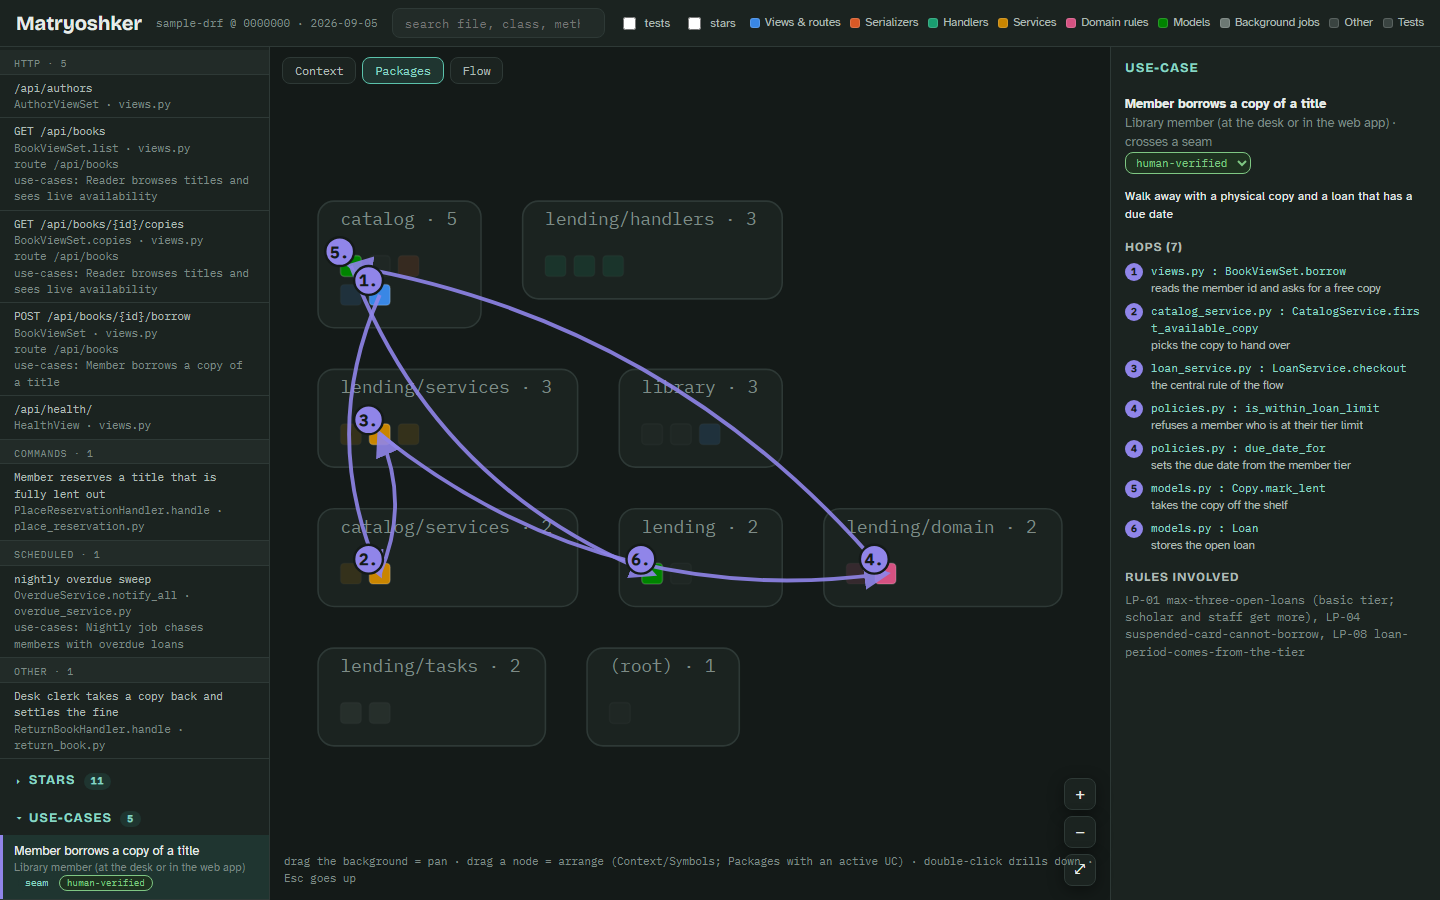
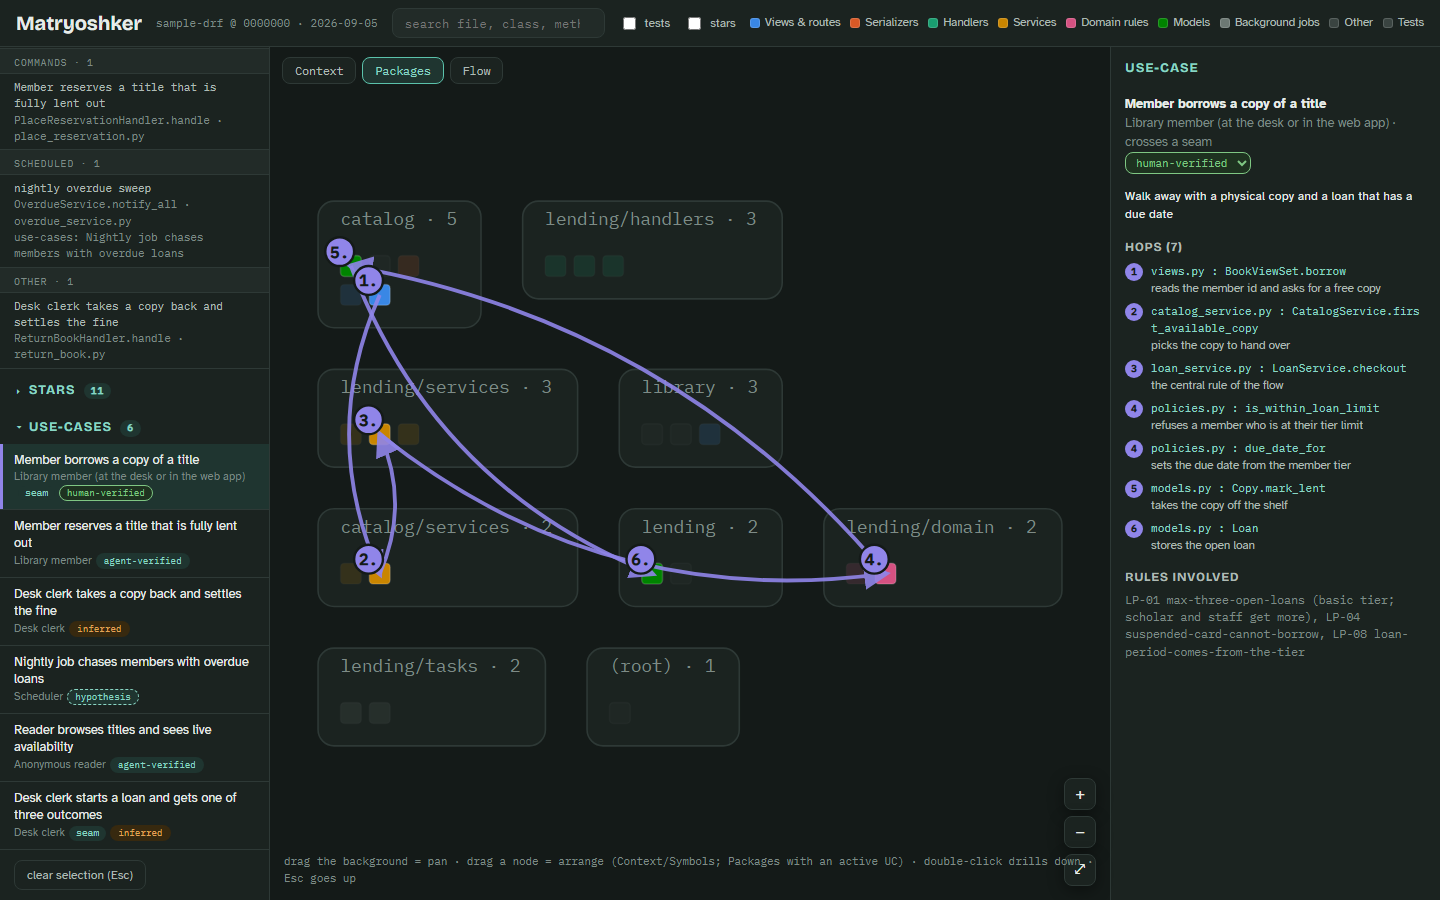
docs+data: a forked use-case in the fixture, and the Flow fan-out screenshot
examples/sample-drf/usecases.json gains "Desk clerk starts a loan and gets one of three
outcomes" (inferred): the borrow request told from the desk, ending at the fork where
LoanService.checkout picks MemberSuspended, LoanLimitReached or Loan, written with the
branch: and seam: prefixes. The README (and its Portuguese peer) shows the resulting Flow
scene — 3a/3b/3c under the choosing hop, a dashed seam edge — captured from the build,
and the tour points at it. Every counter the sixth entry moves is updated in README,
QUICKSTART, the walkthrough and their Portuguese peers; the first screenshot is
recaptured from the six-use-case build.

Claude-Session: https://claude.ai/code/session_0199na1cXfFdGWKTSWA1gUwd

Changed region(s): [[0.0, 0.0622, 0.1875, 0.9956]]

diff --git a/docs/pt-BR/first-use-case.md b/docs/pt-BR/first-use-case.md
@@ -34,7 +34,7 @@ empréstimo quando ninguém está esperando pelo título.
 
 Por que este: é um comportamento real com uma regra de negócio própria (renovações têm
 teto e são bloqueadas por fila), é pequeno, e o registro do fixture ainda não o tem. As
-cinco entradas que já estão em `examples/sample-drf/usecases.json` são as que você vê na
+seis entradas que já estão em `examples/sample-drf/usecases.json` são as que você vê na
 demo.
 
 Prática: parta de um comportamento que um stakeholder nomearia, não de um módulo.
@@ -188,14 +188,14 @@ Saída esperada (stderr e stdout intercalados; as linhas `build.py: step k/4` om
 no Windows os caminhos saem com barras invertidas):
 
 ```
-files=25 imports=33 ucs=6 hops=37 -> out/data.json (10KB)
-entry points: 4 from parsers, 5 declared, 2 fallback, 2 duplicates merged
-entry_points=9 calls: internal=49 cross=71 -> out/extra.json (6KB)
-matryoshker.html: 98KB
+files=25 imports=33 ucs=7 hops=42 -> out/data.json (11KB)
+entry points: 4 from parsers, 6 declared, 2 fallback, 2 duplicates merged
+entry_points=10 calls: internal=49 cross=71 -> out/extra.json (6KB)
+matryoshker.html: 99KB
 ```
 
-Leia os contadores contra o que você escreveu: `ucs=6` (cinco mais o seu), `hops=37`
-(33 mais os seus quatro), `2 fallback` (o fixture já tinha um use-case sem ponto de
+Leia os contadores contra o que você escreveu: `ucs=7` (seis mais o seu), `hops=42`
+(38 mais os seus quatro), `2 fallback` (o fixture já tinha um use-case sem ponto de
 entrada; o seu é o segundo). Nenhuma linha começando com `UC ` apareceu em stderr: o
 arquivo de todo hop resolveu e todo símbolo foi encontrado no seu arquivo.
 
@@ -207,10 +207,10 @@ As duas variantes abaixo foram executadas. **Um símbolo errado** — hop 1 cita
 ```
 UC Member renews a loan before it is due: 4/4 hops resolved
   unverified symbol [LoanService.extend not declared in lending/services/loan_service.py]: lending/services/loan_service.py:LoanService.extend — refuses when the title has a queue or the renewals are used up
-files=25 imports=33 ucs=6 hops=37 -> out/data.json (10KB)
+files=25 imports=33 ucs=7 hops=42 -> out/data.json (11KB)
 ```
 
-O hop ainda conta (`4/4`, `hops=37`), ainda é desenhado no mapa com o nome errado, e o
+O hop ainda conta (`4/4`, `hops=42`), ainda é desenhado no mapa com o nome errado, e o
 código de saída é **0 mesmo com `--strict`**. O único rastro é aquela linha de stderr.
 Leia o stderr.
 
@@ -219,11 +219,11 @@ Leia o stderr.
 ```
 UC Member renews a loan before it is due: 3/4 hops resolved
   dropped [file not found in the extraction]: lending/domain/renewal_policy.py:can_renew — the rule: no open reservation and fewer than MAX_RENEWALS
-total: 36/37 hops resolved (1 dropped in 1 use-cases)
+total: 41/42 hops resolved (1 dropped in 1 use-cases)
 strict: 1 citations dropped
 ```
 
-O hop é descartado (`hops=36`) e, com `--strict`, o build para na etapa 2 com código de
+O hop é descartado (`hops=41`) e, com `--strict`, o build para na etapa 2 com código de
 saída 3 e não escreve HTML. Sem `--strict` ele sai com 0 e constrói um mapa com três
 hops. Contrato: §5.4, §5.5 e §11.
 
@@ -231,7 +231,7 @@ hops. Contrato: §5.4, §5.5 e §11.
 
 Abra `matryoshker.html`.
 
-- Barra lateral, *Use-cases*: seis entradas; a sua é a última, com chip `inferred`.
+- Barra lateral, *Use-cases*: sete entradas; a sua é a última, com chip `inferred`.
 - Barra lateral, *Entry points*, grupo *Other*: uma entrada chamada *Member renews a loan
   before it is due*, `LoanService.renew · loan_service.py` — o fallback.
 - Clique no use-case. *Packages*: três badges — `1.` em `loan_service.py`, `2.` em
@@ -239,7 +239,7 @@ Abra `matryoshker.html`.
   arquivo. O painel direito lista os quatro hops com seus papéis e as duas regras,
   numerados pelo badge do mapa — por isso os dois hops de `policies.py` mostram `2`.
 - *Flow*: quatro caixas, de `1.` a `4.`, na ordem do registro.
-- Clique no quadrado de `loan_service.py`: *Use-cases passing here (4)* — três use-cases
+- Clique no quadrado de `loan_service.py`: *Use-cases passing here (5)* — quatro use-cases
   existentes e o seu. Este é o índice reverso arquivo → use-cases.
 - *open symbol map ⌄*, depois clique em `renew`: *Calls (2)* `can_renew`,
   `loan_period_days`; *Called by (0)*.

diff --git a/docs/first-use-case.md b/docs/first-use-case.md
@@ -29,7 +29,7 @@ waiting for the title.
 
 Why this one: it is a real behavior with a business rule of its own (renewals are capped
 and blocked by a queue), it is small, and the fixture's registry does not have it yet.
-The five entries already in `examples/sample-drf/usecases.json` are the ones you see in
+The six entries already in `examples/sample-drf/usecases.json` are the ones you see in
 the demo.
 
 Practice: start from a behavior a stakeholder would name, not from a module. "Renew a
@@ -183,13 +183,13 @@ Expected output (stderr and stdout interleaved; the `build.py: step k/4` lines o
 on Windows the paths print with backslashes):
 
 ```
-files=25 imports=33 ucs=6 hops=37 -> out/data.json (10KB)
-entry points: 4 from parsers, 5 declared, 2 fallback, 2 duplicates merged
-entry_points=9 calls: internal=49 cross=71 -> out/extra.json (6KB)
-matryoshker.html: 98KB
+files=25 imports=33 ucs=7 hops=42 -> out/data.json (11KB)
+entry points: 4 from parsers, 6 declared, 2 fallback, 2 duplicates merged
+entry_points=10 calls: internal=49 cross=71 -> out/extra.json (6KB)
+matryoshker.html: 99KB
 ```
 
-Read the counters against what you wrote: `ucs=6` (five plus yours), `hops=37` (33
+Read the counters against what you wrote: `ucs=7` (six plus yours), `hops=42` (38
 plus your four), `2 fallback` (the fixture already had one use-case with no entry point;
 yours is the second). No line starting with `UC ` appeared on stderr: every hop's file
 resolved and every symbol was found in its file.
@@ -202,10 +202,10 @@ Both variants below were run. **A wrong symbol** — hop 1 cited as
 ```
 UC Member renews a loan before it is due: 4/4 hops resolved
   unverified symbol [LoanService.extend not declared in lending/services/loan_service.py]: lending/services/loan_service.py:LoanService.extend — refuses when the title has a queue or the renewals are used up
-files=25 imports=33 ucs=6 hops=37 -> out/data.json (10KB)
+files=25 imports=33 ucs=7 hops=42 -> out/data.json (11KB)
 ```
 
-The hop still counts (`4/4`, `hops=37`), still draws on the map with the wrong name,
+The hop still counts (`4/4`, `hops=42`), still draws on the map with the wrong name,
 and the exit code is **0 even with `--strict`**. The only trace is that stderr line.
 Read the stderr.
 
@@ -214,11 +214,11 @@ Read the stderr.
 ```
 UC Member renews a loan before it is due: 3/4 hops resolved
   dropped [file not found in the extraction]: lending/domain/renewal_policy.py:can_renew — the rule: no open reservation and fewer than MAX_RENEWALS
-total: 36/37 hops resolved (1 dropped in 1 use-cases)
+total: 41/42 hops resolved (1 dropped in 1 use-cases)
 strict: 1 citations dropped
 ```
 
-The hop is dropped (`hops=36`), and with `--strict` the build stops at step 2 with exit
+The hop is dropped (`hops=41`), and with `--strict` the build stops at step 2 with exit
 code 3 and writes no HTML. Without `--strict` it exits 0 and builds a map with three
 hops. Contract: §5.4, §5.5 and §11 of the data contract.
 
@@ -226,7 +226,7 @@ hops. Contract: §5.4, §5.5 and §11 of the data contract.
 
 Open `matryoshker.html`.
 
-- Sidebar, *Use-cases*: six entries; yours is last, with an `inferred` chip.
+- Sidebar, *Use-cases*: seven entries; yours is last, with an `inferred` chip.
 - Sidebar, *Entry points*, group *Other*: an entry named *Member renews a loan before it
   is due*, `LoanService.renew · loan_service.py` — the fallback.
 - Click the use-case. *Packages*: three badges — `1.` on `loan_service.py`, `2.` on
@@ -234,7 +234,7 @@ Open `matryoshker.html`.
   The right panel lists the four hops with their roles and the two rules, numbered by
   map badge — so the two `policies.py` hops both read `2`.
 - *Flow*: four boxes, `1.` to `4.`, in registry order.
-- Click the `loan_service.py` square: *Use-cases passing here (4)* — three existing
+- Click the `loan_service.py` square: *Use-cases passing here (5)* — four existing
   use-cases and yours. This is the file → use-cases reverse index.
 - *open symbol map ⌄*, then click `renew`: *Calls (2)* `can_renew`, `loan_period_days`;
   *Called by (0)*.

diff --git a/docs/pt-BR/README.md b/docs/pt-BR/README.md
@@ -33,7 +33,7 @@ rota, os próprios use-cases — vive em `config/` e `data/`, nunca no viewer.
 
 **[devanomaly.github.io/matryoshker](https://devanomaly.github.io/matryoshker/)** — o
 fixture `examples/sample-drf` (uma pequena app Django/DRF de empréstimo de livros) com
-seus cinco use-cases, reconstruído por `.github/workflows/pages.yml` a cada push em
+seus seis use-cases, reconstruído por `.github/workflows/pages.yml` a cada push em
 `main`. A interface da demo está em inglês (`"lang": "en"` em `config/example.json`); com
 `"lang": "pt-BR"` no config o mesmo build sai com a interface em português, e este tour
 cita os dois nomes quando eles diferem.
@@ -67,7 +67,10 @@ parênteses quando o texto muda).
 2. **Leia o Fluxo.** Clique em *Flow* (*Fluxo*) na migalha. O mesmo use-case agora é uma
    cadeia vertical, uma caixa por hop: arquivo, símbolo, papel. É a explicação curada,
    desenhada hop a hop. Dois hops no mesmo arquivo ganham um badge só no mapa, mas duas
-   caixas aqui.
+   caixas aqui. Agora escolha *Desk clerk starts a loan and gets one of three outcomes*:
+   seus hops estão marcados `branch:` no registro, então o Fluxo os desenha em leque —
+   `3a`, `3b`, `3c` lado a lado sob o hop que escolhe — e o hop `seam:` recebe uma aresta
+   tracejada.
 3. **Afaste, aproxime.** *Context* (*Contexto*) mostra os pacotes como caixas com arestas
    de import agregadas. De volta em *Packages*, clique num quadrado de arquivo (por
    exemplo `loan_service.py` em `lending/services`) — o painel direito mostra as classes,
@@ -100,6 +103,16 @@ parênteses quando o texto muda).
 Esc sobe um nível de cada vez; a linha de dica no rodapé do mapa lista os gestos do
 mouse.
 
+<picture>
+  <source media="(prefers-color-scheme: dark)" srcset="../images/demo-flow-fan-dark.png">
+  <img src="../images/demo-flow-fan-light.png" width="1920"
+       alt="A cena Flow da demo para o use-case 'Desk clerk starts a loan and gets one of three outcomes'. A caixa 1 é BookViewSet.borrow em views.py, a caixa 2 é LoanService.checkout em loan_service.py, e abaixo dela três caixas lado a lado, 3a MemberSuspended, 3b LoanLimitReached e 3c Loan em models.py, cada uma ligada à caixa 2 por uma seta. O painel direito lista os cinco hops com seus prefixos de papel branch: e seam: e as duas regras envolvidas.">
+</picture>
+
+*A cena Flow de um use-case cuja entrada no registro marca três hops como `branch:`: um
+nível, três irmãos, escolhidos no hop 2. Nada vem depois do leque, então nada reconverge.
+Mesmo build de cima, viewport de 1920×720.*
+
 ## Construa você mesmo
 
 Pré-requisitos: Python 3.10+, Node 22+, git.
@@ -113,7 +126,7 @@ python pipeline/build.py \
 ```
 
 Abra `matryoshker.html` no navegador. O build imprime uma linha de contadores por etapa; a
-que importa é `files=25 imports=33 ucs=5 hops=33` — `hops` conta os hops que resolveram
+que importa é `files=25 imports=33 ucs=6 hops=38` — `hops` conta os hops que resolveram
 contra a extração, e qualquer hop que não resolveu é reportado em stderr logo acima. No
 Windows, `python` pode resolver para um interpretador antigo; `py -3` é a grafia segura.
 

diff --git a/README.md b/README.md
@@ -26,7 +26,7 @@ themselves — lives in `config/` and `data/`, never in the viewer.
 
 **[devanomaly.github.io/matryoshker](https://devanomaly.github.io/matryoshker/)** — the
 bundled `examples/sample-drf` fixture (a small Django/DRF library-lending app) with its
-five use-cases, rebuilt by `.github/workflows/pages.yml` on every push to `main`.
+six use-cases, rebuilt by `.github/workflows/pages.yml` on every push to `main`.
 
 <picture>
   <source media="(prefers-color-scheme: dark)" srcset="docs/images/demo-use-case-dark.png">
@@ -55,6 +55,9 @@ Every control below exists in the demo under exactly this name.
 2. **Read its Flow.** Click *Flow* in the breadcrumb. The same use-case is now a vertical
    chain, one box per hop: file, symbol, role. This is the curated explanation, drawn
    hop by hop. Two hops in the same file get one badge on the map but two boxes here.
+   Now pick *Desk clerk starts a loan and gets one of three outcomes*: its hops are
+   marked `branch:` in the registry, so Flow draws them as a fan — `3a`, `3b`, `3c` side
+   by side under the hop that chooses — and the `seam:` hop is entered by a dashed edge.
 3. **Zoom out, zoom in.** *Context* shows packages as boxes with aggregated import
    edges. Back in *Packages*, click a file square (say `loan_service.py` under
    `lending/services`) — the right panel shows its classes, imports and, under
@@ -83,6 +86,16 @@ Every control below exists in the demo under exactly this name.
 Esc goes up one level at a time; the hint line at the bottom of the map lists the
 mouse gestures.
 
+<picture>
+  <source media="(prefers-color-scheme: dark)" srcset="docs/images/demo-flow-fan-dark.png">
+  <img src="docs/images/demo-flow-fan-light.png" width="1920"
+       alt="The Flow scene of the demo for the use-case 'Desk clerk starts a loan and gets one of three outcomes'. Box 1 is BookViewSet.borrow in views.py, box 2 is LoanService.checkout in loan_service.py, and below it three boxes side by side, 3a MemberSuspended, 3b LoanLimitReached and 3c Loan in models.py, each joined to box 2 by an arrow. The right panel lists the five hops with their branch: and seam: role prefixes and the two rules involved.">
+</picture>
+
+*The Flow scene for a use-case whose registry entry marks three hops `branch:`: one
+level, three siblings, chosen at hop 2. Nothing follows the fan, so nothing reconverges.
+Same build as above, viewport 1920×720.*
+
 ## Build it yourself
 
 Prerequisites: Python 3.10+, Node 22+, git.
@@ -96,7 +109,7 @@ python pipeline/build.py \
 ```
 
 Open `matryoshker.html` in a browser. The build prints one counter line per step; the
-one to read is `files=25 imports=33 ucs=5 hops=33` — `hops` counts the hops that resolved
+one to read is `files=25 imports=33 ucs=6 hops=38` — `hops` counts the hops that resolved
 against the extraction, and any hop that did not is reported on stderr right above it.
 On Windows `python` may resolve to an older interpreter; `py -3` is the safe spelling.
 

diff --git a/CHANGELOG.md b/CHANGELOG.md
@@ -19,6 +19,14 @@ All notable changes to this project are documented in this file.
   `docs/pt-BR/v1.3/`. The prior-art paragraph moved below the adoption path and no
   longer claims that no other tool offers the combination.
 
+- **Fixture registry: a sixth use-case with a fan-out.** `examples/sample-drf/usecases.json`
+  gains *Desk clerk starts a loan and gets one of three outcomes* (`inferred`): the same
+  request as *Member borrows a copy of a title*, told from the desk and ending at the
+  fork where `LoanService.checkout` picks `MemberSuspended`, `LoanLimitReached` or
+  `Loan`, written with the `branch:` and `seam:` role prefixes so the demo — and the
+  README's second screenshot — shows a Flow fan (`3a`, `3b`, `3c`) and a dashed seam
+  edge. The demo build now reports `ucs=6 hops=38` and `entry_points=9`.
+
 - **Fixed — the Flow scene now follows the selection you made last.** With a use-case
   active, choosing an entry point (or *call tree from here* in the Symbols scene) updated
   the crumb, the detail panel and the sidebar highlight while Flow kept drawing the

diff --git a/QUICKSTART.md b/QUICKSTART.md
@@ -34,10 +34,10 @@ Expected, on a fresh checkout (the `build.py: step k/4` lines and the extractor'
 summary omitted; on Windows the paths print with backslashes):
 
 ```
-files=25 imports=33 ucs=5 hops=33 -> out/data.json (9KB)
-entry points: 4 from parsers, 5 declared, 1 fallback, 2 duplicates merged
-entry_points=8 calls: internal=49 cross=71 -> out/extra.json (6KB)
-matryoshker.html: 97KB
+files=25 imports=33 ucs=6 hops=38 -> out/data.json (10KB)
+entry points: 4 from parsers, 6 declared, 1 fallback, 2 duplicates merged
+entry_points=9 calls: internal=49 cross=71 -> out/extra.json (6KB)
+matryoshker.html: 98KB
 ```
 
 Open `matryoshker.html` in a browser (double-click it, or serve the directory
